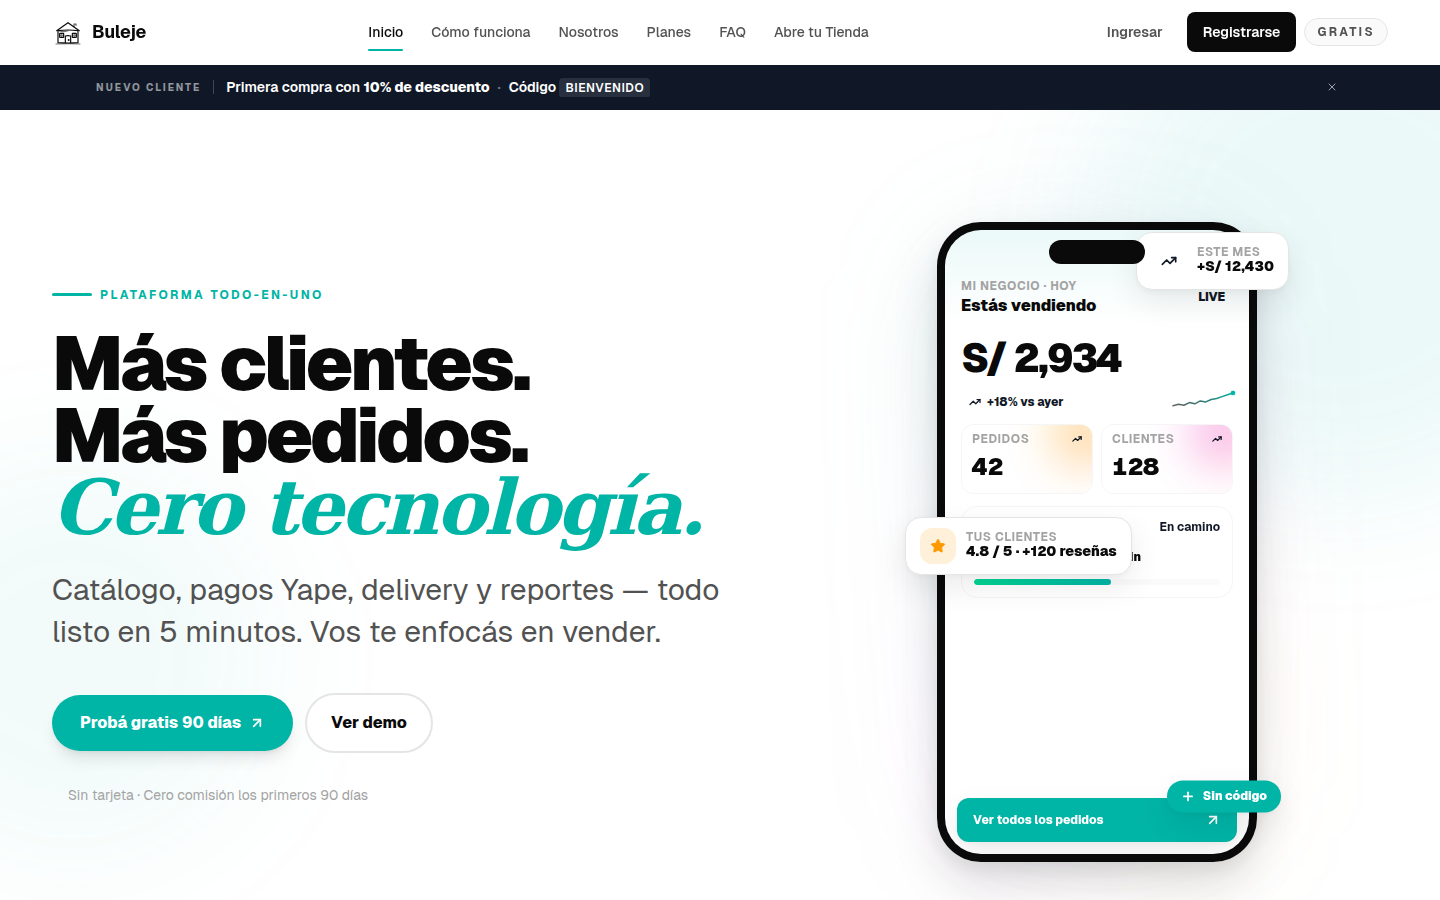
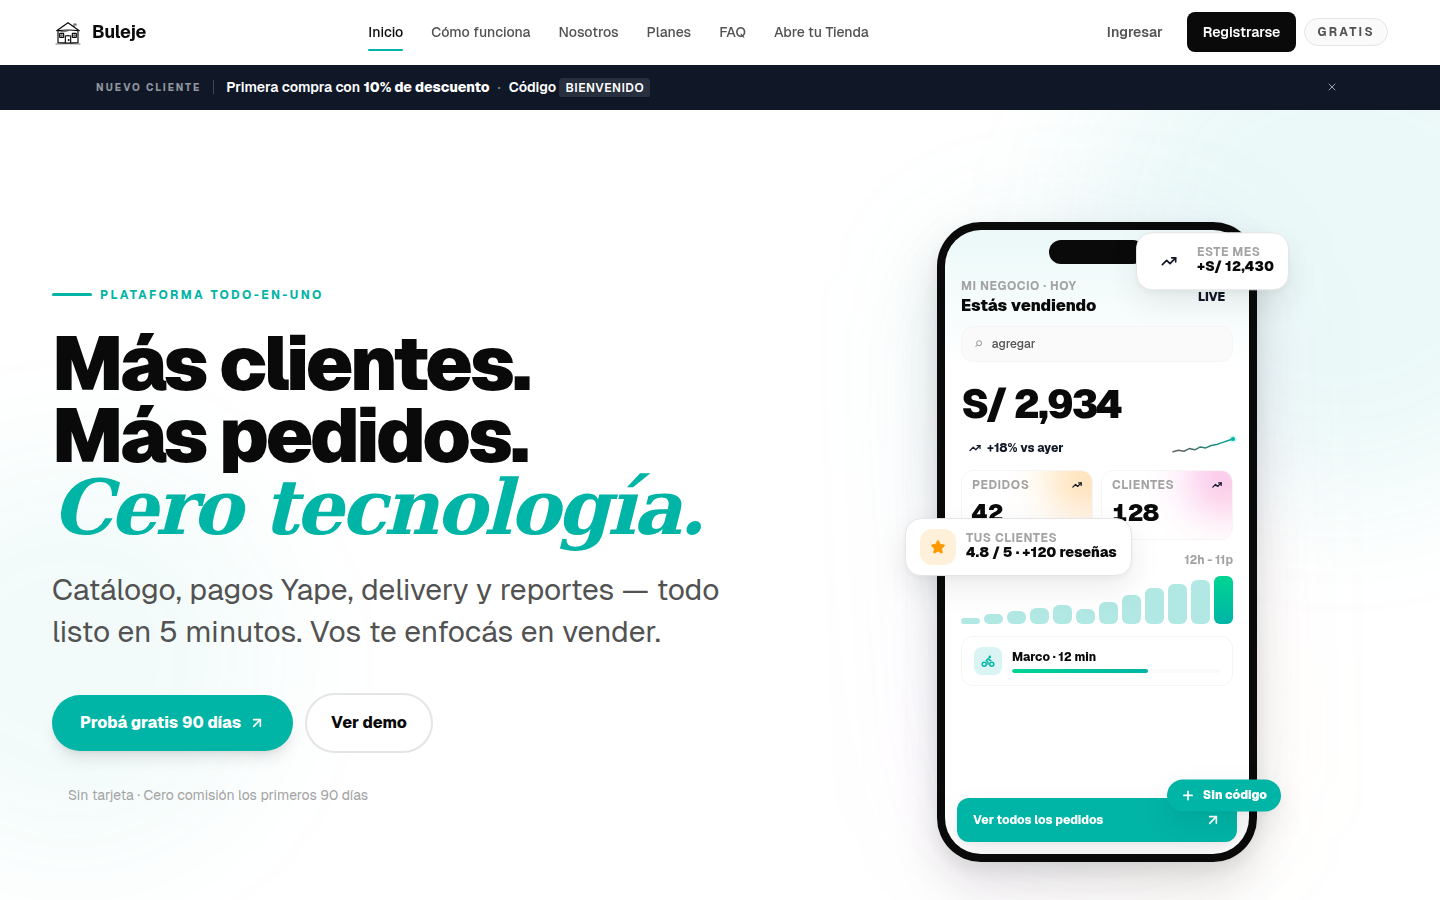
feat(landing): phone v3 — 3d tilt + bar chart + search autotyping + toast stack
Mejoras al PhoneMockup del hero:

- 3d mouse tilt: rotateX/rotateY con useSpring siguiendo el cursor en
  desktop (perspective: 1200px, range +-8deg).

- Bar chart "Ventas por hora": 12 barras animadas con stagger, peak
  destacado con gradient accent → emerald.

- Search bar auto-typing: cycle entre 4 frases ("agregar producto",
  "ver pedidos pendientes", "imprimir reporte", "crear cupón") con
  cursor blink animado.

- Toast stack: hasta 2 toasts visibles simultáneos. El nuevo entra
  arriba con spring (360/26), el anterior se desplaza 8px abajo y baja
  opacity a 0.55 / scale 0.94.

- Tracker compacto inline (de card grande a row con icon + nombre +
  progress bar 1px) — gana espacio para el bar chart.

Changed region(s): [[0.6562, 0.3733, 0.875, 0.7467], [0.6562, 0.3111, 0.75, 0.3422], [0.8438, 0.8711, 0.875, 0.9022]]

diff --git a/components/landing/LandingHero.tsx b/components/landing/LandingHero.tsx
@@ -11,12 +11,14 @@
  * RIGHT: phone preview animado con dashboard del negocio.
  */
 
-import { useEffect, useRef, useState } from "react";
+import { useEffect, useRef, useState, type MouseEvent as ReactMouseEvent } from "react";
 import Link from "next/link";
 import {
   AnimatePresence,
   m,
+  useMotionValue,
   useScroll,
+  useSpring,
   useTransform,
   useReducedMotion,
 } from "framer-motion";
@@ -222,32 +224,65 @@ const EVENT_META: Record<EventKind, { Icon: typeof ShoppingBag; tone: string }> 
 // Sparkline path: día de ventas (12 puntos)
 const SPARKLINE_POINTS = [22, 28, 24, 35, 30, 42, 38, 48, 52, 60, 68, 75];
 
+// Hourly bars: ventas por hora del día (12 barras, valor relativo)
+const HOURLY_BARS = [12, 18, 24, 30, 35, 28, 42, 55, 68, 75, 82, 90];
+
+const SEARCH_PHRASES = [
+  "agregar producto",
+  "ver pedidos pendientes",
+  "imprimir reporte",
+  "crear cupón",
+];
+
 function PhoneMockup({ reducedMotion }: { reducedMotion: boolean }) {
   const [sales, setSales] = useState(2840);
   const [eventIdx, setEventIdx] = useState(0);
-  const [showToast, setShowToast] = useState(false);
+  const [pulse, setPulse] = useState(0);
   const [progress, setProgress] = useState(45);
-  const [pulse, setPulse] = useState(0); // trigger pulso al entrar evento
+  const [toastStack, setToastStack] = useState<number[]>([]); // últimos 2 event indexes
+  const [searchText, setSearchText] = useState("");
 
-  useEffect(() => {
+  // Mouse tilt 3D
+  const tiltX = useSpring(useMotionValue(0), { stiffness: 120, damping: 18 });
+  const tiltY = useSpring(useMotionValue(0), { stiffness: 120, damping: 18 });
+  const handleMouseMove = (e: ReactMouseEvent<HTMLDivElement>) => {
     if (reducedMotion) return;
+    const rect = e.currentTarget.getBoundingClientRect();
+    const x = (e.clientX - rect.left) / rect.width - 0.5; // -0.5..0.5
+    const y = (e.clientY - rect.top) / rect.height - 0.5;
+    tiltY.set(x * 8); // rotateY
+    tiltX.set(-y * 8); // rotateX
+  };
+  const handleMouseLeave = () => {
+    tiltX.set(0);
+    tiltY.set(0);
+  };
+
+  // Eventos rotativos cada 3.4s
+  useEffect(() => {
+    if (reducedMotion) {
+      setToastStack([0]);
+      return;
+    }
     const tick = setInterval(() => {
-      setEventIdx((i) => (i + 1) % EVENT_STREAM.length);
-      setShowToast(true);
+      setEventIdx((i) => {
+        const next = (i + 1) % EVENT_STREAM.length;
+        setToastStack((st) => [next, ...st].slice(0, 2));
+        return next;
+      });
       setPulse((p) => p + 1);
-      setTimeout(() => setShowToast(false), 2600);
     }, 3400);
     return () => clearInterval(tick);
   }, [reducedMotion]);
 
-  // Sumar ventas cuando entra el evento (delta del evento actual)
+  // Sumar ventas cuando cambia evento
   useEffect(() => {
     if (reducedMotion) return;
     const ev = EVENT_STREAM[eventIdx];
     if (ev.delta > 0) setSales((s) => s + ev.delta);
   }, [eventIdx, reducedMotion]);
 
-  // Barra de progreso del tracker (0 → 100% en 3.4s loop)
+  // Tracker progress 0→100% loop
   useEffect(() => {
     if (reducedMotion) { setProgress(75); return; }
     const start = Date.now();
@@ -258,29 +293,66 @@ function PhoneMockup({ reducedMotion }: { reducedMotion: boolean }) {
     return () => clearInterval(id);
   }, [reducedMotion]);
 
-  const ev = EVENT_STREAM[eventIdx];
-  const { Icon: EvIcon, tone: evTone } = EVENT_META[ev.kind];
+  // Auto-typing search
+  useEffect(() => {
+    if (reducedMotion) {
+      setSearchText(SEARCH_PHRASES[0]);
+      return;
+    }
+    let phraseIdx = 0;
+    let charIdx = 0;
+    let typing = true;
+    const tick = setInterval(() => {
+      const target = SEARCH_PHRASES[phraseIdx];
+      if (typing) {
+        charIdx++;
+        setSearchText(target.slice(0, charIdx));
+        if (charIdx >= target.length) {
+          typing = false;
+          setTimeout(() => {}, 800);
+        }
+      } else {
+        charIdx--;
+        setSearchText(target.slice(0, charIdx));
+        if (charIdx <= 0) {
+          typing = true;
+          phraseIdx = (phraseIdx + 1) % SEARCH_PHRASES.length;
+        }
+      }
+    }, 90);
+    return () => clearInterval(tick);
+  }, [reducedMotion]);
 
   return (
-    <div aria-hidden className="relative h-[520px] sm:h-[580px] lg:h-[640px] flex items-center justify-center select-none">
+    <div
+      aria-hidden
+      onMouseMove={handleMouseMove}
+      onMouseLeave={handleMouseLeave}
+      className="relative h-[520px] sm:h-[580px] lg:h-[640px] flex items-center justify-center select-none [perspective:1200px]"
+    >
       {/* Glow accent multicapa */}
       <div className="absolute inset-x-4 top-8 bottom-4 rounded-[3.5rem] bg-linear-to-br from-[var(--accent)]/[0.22] via-fuchsia-500/[0.08] to-amber-400/[0.12] blur-3xl" />
       <div className="absolute inset-x-12 top-16 bottom-12 rounded-[3rem] bg-linear-to-tr from-[var(--accent)]/[0.18] to-transparent blur-2xl" />
 
-      {/* Pulso expansivo al entrar evento (sutil) */}
+      {/* Pulso expansivo al entrar evento */}
       {!reducedMotion && (
         <m.div
           key={pulse}
           aria-hidden
           initial={{ scale: 0.92, opacity: 0.55 }}
-          animate={{ scale: 1.18, opacity: 0 }}
+          animate={{ scale: 1.2, opacity: 0 }}
           transition={{ duration: 1.6, ease: "easeOut" }}
           className="absolute inset-x-8 top-12 bottom-8 rounded-[3rem] border-2 border-[var(--accent)]/30 pointer-events-none"
         />
       )}
 
-      {/* Frame del teléfono */}
+      {/* Frame del teléfono con 3D tilt */}
       <m.div
+        style={{
+          rotateX: tiltX,
+          rotateY: tiltY,
+          transformStyle: "preserve-3d",
+        }}
         whileHover={reducedMotion ? undefined : { y: -4, scale: 1.01 }}
         transition={{ type: "spring", stiffness: 220, damping: 20 }}
         className="relative h-full w-[260px] sm:w-[290px] lg:w-[320px] rounded-[2.75rem] bg-[var(--text-primary)] p-2 shadow-[var(--shadow-xl)] shadow-[var(--accent)]/20"
@@ -307,6 +379,18 @@ function PhoneMockup({ reducedMotion }: { reducedMotion: boolean }) {
                 </span>
                 <span className="text-xs font-black text-[var(--brand-success)]">LIVE</span>
               </span>
+            </div>
+            {/* Search auto-typing */}
+            <div className="mt-2.5 h-9 rounded-xl bg-[var(--surface-sunken)] border border-[var(--rule-soft)] flex items-center px-3 text-xs text-[var(--text-secondary)] font-medium">
+              <span className="mr-2 text-[var(--text-tertiary)] text-base">⌕</span>
+              <span className="truncate">{searchText}</span>
+              {!reducedMotion && (
+                <m.span
+                  animate={{ opacity: [1, 0, 1] }}
+                  transition={{ duration: 1, repeat: Infinity }}
+                  className="ml-0.5 inline-block w-px h-3 bg-[var(--text-secondary)]"
+                />
+              )}
             </div>
           </div>
 
@@ -338,33 +422,39 @@ function PhoneMockup({ reducedMotion }: { reducedMotion: boolean }) {
             <KpiCard kicker="Clientes" value={128 + eventIdx * 2} tone="bg-linear-to-br from-fuchsia-500 to-rose-500" />
           </div>
 
-          {/* Tracker pedido en vivo */}
+          {/* Bar chart "Ventas por hora" */}
           <div className="px-4 mt-3">
-            <div className="rounded-2xl bg-[var(--surface-raised)] border border-[var(--rule-soft)] p-3">
-              <div className="flex items-center justify-between">
-                <p className="text-xs font-extrabold text-[var(--text-primary)]">Pedido #2403</p>
-                <span className="inline-flex items-center gap-1 text-xs font-bold text-[var(--brand-success)]">
-                  <span className="relative flex h-2 w-2">
-                    <span className="animate-ping absolute inline-flex h-full w-full rounded-full bg-[var(--brand-success)] opacity-75" />
-                    <span className="relative inline-flex h-2 w-2 rounded-full bg-[var(--brand-success)]" />
+            <div className="flex items-center justify-between mb-2">
+              <p className="text-xs font-extrabold text-[var(--text-primary)]">Por hora</p>
+              <p className="text-xs font-bold text-[var(--text-tertiary)]">12h - 11p</p>
+            </div>
+            <HourlyBars values={HOURLY_BARS} reducedMotion={reducedMotion} />
+          </div>
+
+          {/* Tracker compacto */}
+          <div className="px-4 mt-3">
+            <div className="rounded-xl bg-[var(--surface-raised)] border border-[var(--rule-soft)] px-3 py-2.5 flex items-center gap-2.5">
+              <span className="inline-flex h-7 w-7 shrink-0 items-center justify-center rounded-lg bg-[var(--accent)]/15 text-[var(--accent)]">
+                <Bike className="h-3.5 w-3.5" strokeWidth={2.5} />
+              </span>
+              <div className="flex-1 min-w-0">
+                <div className="flex items-center justify-between">
+                  <p className="text-xs font-extrabold text-[var(--text-primary)] truncate">
+                    Marco · 12 min
+                  </p>
+                  <span className="inline-flex items-center gap-1 text-xs font-bold text-[var(--brand-success)]">
+                    <span className="relative flex h-1.5 w-1.5">
+                      <span className="animate-ping absolute inline-flex h-full w-full rounded-full bg-[var(--brand-success)] opacity-75" />
+                      <span className="relative inline-flex h-1.5 w-1.5 rounded-full bg-[var(--brand-success)]" />
+                    </span>
                   </span>
-                  En camino
-                </span>
-              </div>
-              <div className="mt-2 flex items-center gap-2">
-                <span className="inline-flex h-7 w-7 items-center justify-center rounded-lg bg-[var(--accent)]/15 text-[var(--accent)]">
-                  <Bike className="h-3.5 w-3.5" strokeWidth={2.5} />
-                </span>
-                <p className="text-xs text-[var(--text-secondary)]">
-                  Marco · Llega en{" "}
-                  <span className="font-black text-[var(--text-primary)]">12 min</span>
-                </p>
-              </div>
-              <div className="mt-2 h-1.5 rounded-full bg-[var(--surface-sunken)] overflow-hidden">
-                <div
-                  className="h-full rounded-full bg-linear-to-r from-emerald-400 to-[var(--accent)] transition-[width] duration-100"
-                  style={{ width: `${progress}%` }}
-                />
+                </div>
+                <div className="mt-1 h-1 rounded-full bg-[var(--surface-sunken)] overflow-hidden">
+                  <div
+                    className="h-full rounded-full bg-linear-to-r from-emerald-400 to-[var(--accent)] transition-[width] duration-100"
+                    style={{ width: `${progress}%` }}
+                  />
+                </div>
               </div>
             </div>
           </div>
@@ -375,39 +465,51 @@ function PhoneMockup({ reducedMotion }: { reducedMotion: boolean }) {
             <ArrowUpRight className="h-4 w-4" strokeWidth={2.5} />
           </div>
 
-          {/* Toast multi-evento — animado por kind */}
-          <AnimatePresence mode="wait">
-            {showToast && (
-              <m.div
-                key={eventIdx}
-                initial={{ y: -50, opacity: 0, scale: 0.9 }}
-                animate={{ y: 0, opacity: 1, scale: 1 }}
-                exit={{ y: -30, opacity: 0, scale: 0.95 }}
-                transition={{ type: "spring", stiffness: 360, damping: 24 }}
-                className="absolute top-12 left-3 right-3 rounded-2xl bg-[var(--text-primary)] text-white px-3 py-2.5 shadow-2xl flex items-center gap-2.5 z-30 backdrop-blur"
-              >
-                <span className={`inline-flex h-8 w-8 items-center justify-center rounded-xl shrink-0 ${evTone}`}>
-                  <EvIcon className="h-4 w-4" strokeWidth={2.5} />
-                </span>
-                <div className="flex-1 min-w-0">
-                  <p className="text-xs font-bold opacity-80 leading-none">{ev.title}</p>
-                  <p className="text-sm font-black leading-tight mt-0.5 truncate">{ev.subtitle}</p>
-                </div>
-                {ev.amount && (
-                  <span className="text-xs font-black text-[var(--brand-success)] shrink-0">
-                    {ev.amount}
-                  </span>
-                )}
-                {ev.kind === "review" && (
-                  <span className="inline-flex items-center gap-0.5 text-amber-400 shrink-0">
-                    {Array.from({ length: 5 }).map((_, i) => (
-                      <Star key={i} className="h-3 w-3 fill-current" strokeWidth={1.5} />
-                    ))}
-                  </span>
-                )}
-              </m.div>
-            )}
-          </AnimatePresence>
+          {/* Toast stack — hasta 2 toasts visibles, el más nuevo arriba */}
+          <div className="absolute top-12 left-3 right-3 z-30 pointer-events-none">
+            <AnimatePresence>
+              {toastStack.map((idx, stackPos) => {
+                const e = EVENT_STREAM[idx];
+                const meta = EVENT_META[e.kind];
+                const ToastIcon = meta.Icon;
+                return (
+                  <m.div
+                    key={`toast-${idx}-${stackPos}`}
+                    initial={{ y: -50, opacity: 0, scale: 0.9 }}
+                    animate={{
+                      y: stackPos * 8,
+                      opacity: stackPos === 0 ? 1 : 0.55,
+                      scale: stackPos === 0 ? 1 : 0.94,
+                    }}
+                    exit={{ y: -30, opacity: 0, scale: 0.92 }}
+                    transition={{ type: "spring", stiffness: 360, damping: 26 }}
+                    style={{ zIndex: 30 - stackPos }}
+                    className="absolute inset-x-0 rounded-2xl bg-[var(--text-primary)] text-white px-3 py-2.5 shadow-2xl flex items-center gap-2.5 backdrop-blur"
+                  >
+                    <span className={`inline-flex h-8 w-8 items-center justify-center rounded-xl shrink-0 ${meta.tone}`}>
+                      <ToastIcon className="h-4 w-4" strokeWidth={2.5} />
+                    </span>
+                    <div className="flex-1 min-w-0">
+                      <p className="text-xs font-bold opacity-80 leading-none">{e.title}</p>
+                      <p className="text-sm font-black leading-tight mt-0.5 truncate">{e.subtitle}</p>
+                    </div>
+                    {e.amount && (
+                      <span className="text-xs font-black text-[var(--brand-success)] shrink-0">
+                        {e.amount}
+                      </span>
+                    )}
+                    {e.kind === "review" && (
+                      <span className="inline-flex items-center gap-0.5 text-amber-400 shrink-0">
+                        {Array.from({ length: 5 }).map((_, i) => (
+                          <Star key={i} className="h-3 w-3 fill-current" strokeWidth={1.5} />
+                        ))}
+                      </span>
+                    )}
+                  </m.div>
+                );
+              })}
+            </AnimatePresence>
+          </div>
         </div>
       </m.div>
 
@@ -492,6 +594,43 @@ function KpiCard({
         </p>
       </div>
     </m.div>
+  );
+}
+
+/* ── Bar chart de ventas por hora ──────────────────────────────────── */
+function HourlyBars({
+  values,
+  reducedMotion,
+}: {
+  values: number[];
+  reducedMotion: boolean;
+}) {
+  const max = Math.max(...values);
+  return (
+    <div className="flex items-end gap-1 h-12">
+      {values.map((v, i) => {
+        const pct = (v / max) * 100;
+        const isPeak = v === max;
+        return (
+          <m.div
+            key={i}
+            initial={reducedMotion ? undefined : { height: 0 }}
+            animate={reducedMotion ? undefined : { height: `${pct}%` }}
+            transition={{
+              duration: 0.5,
+              delay: 0.05 * i,
+              ease: "easeOut",
+            }}
+            style={!reducedMotion ? undefined : { height: `${pct}%` }}
+            className={`flex-1 rounded-sm ${
+              isPeak
+                ? "bg-linear-to-t from-[var(--accent)] to-emerald-400"
+                : "bg-[var(--accent)]/30"
+            }`}
+          />
+        );
+      })}
+    </div>
   );
 }
 
